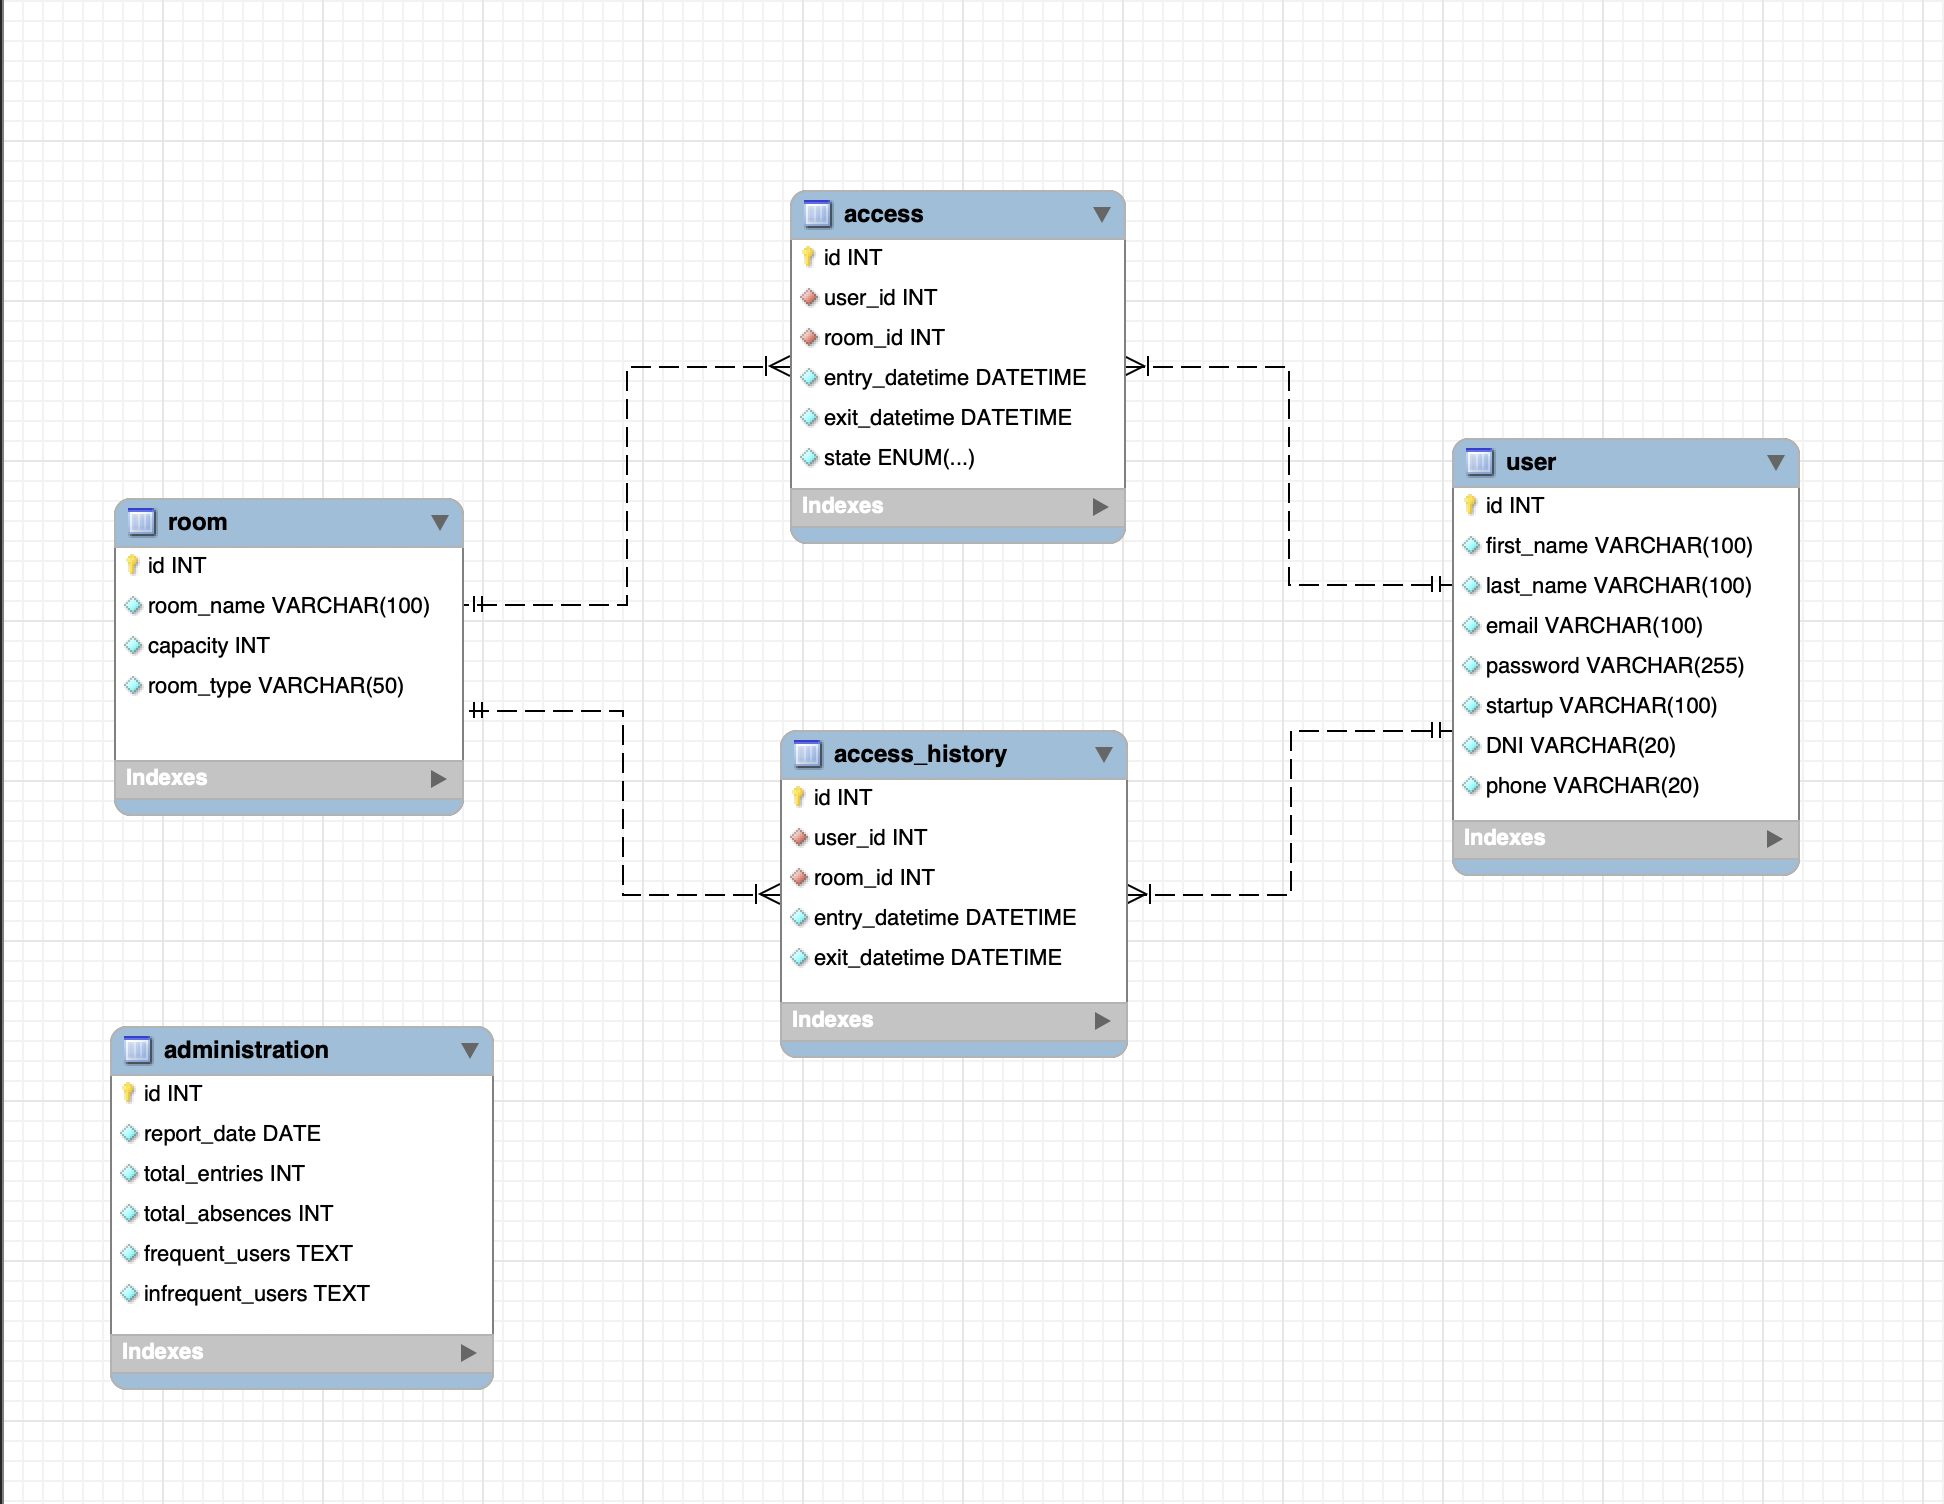
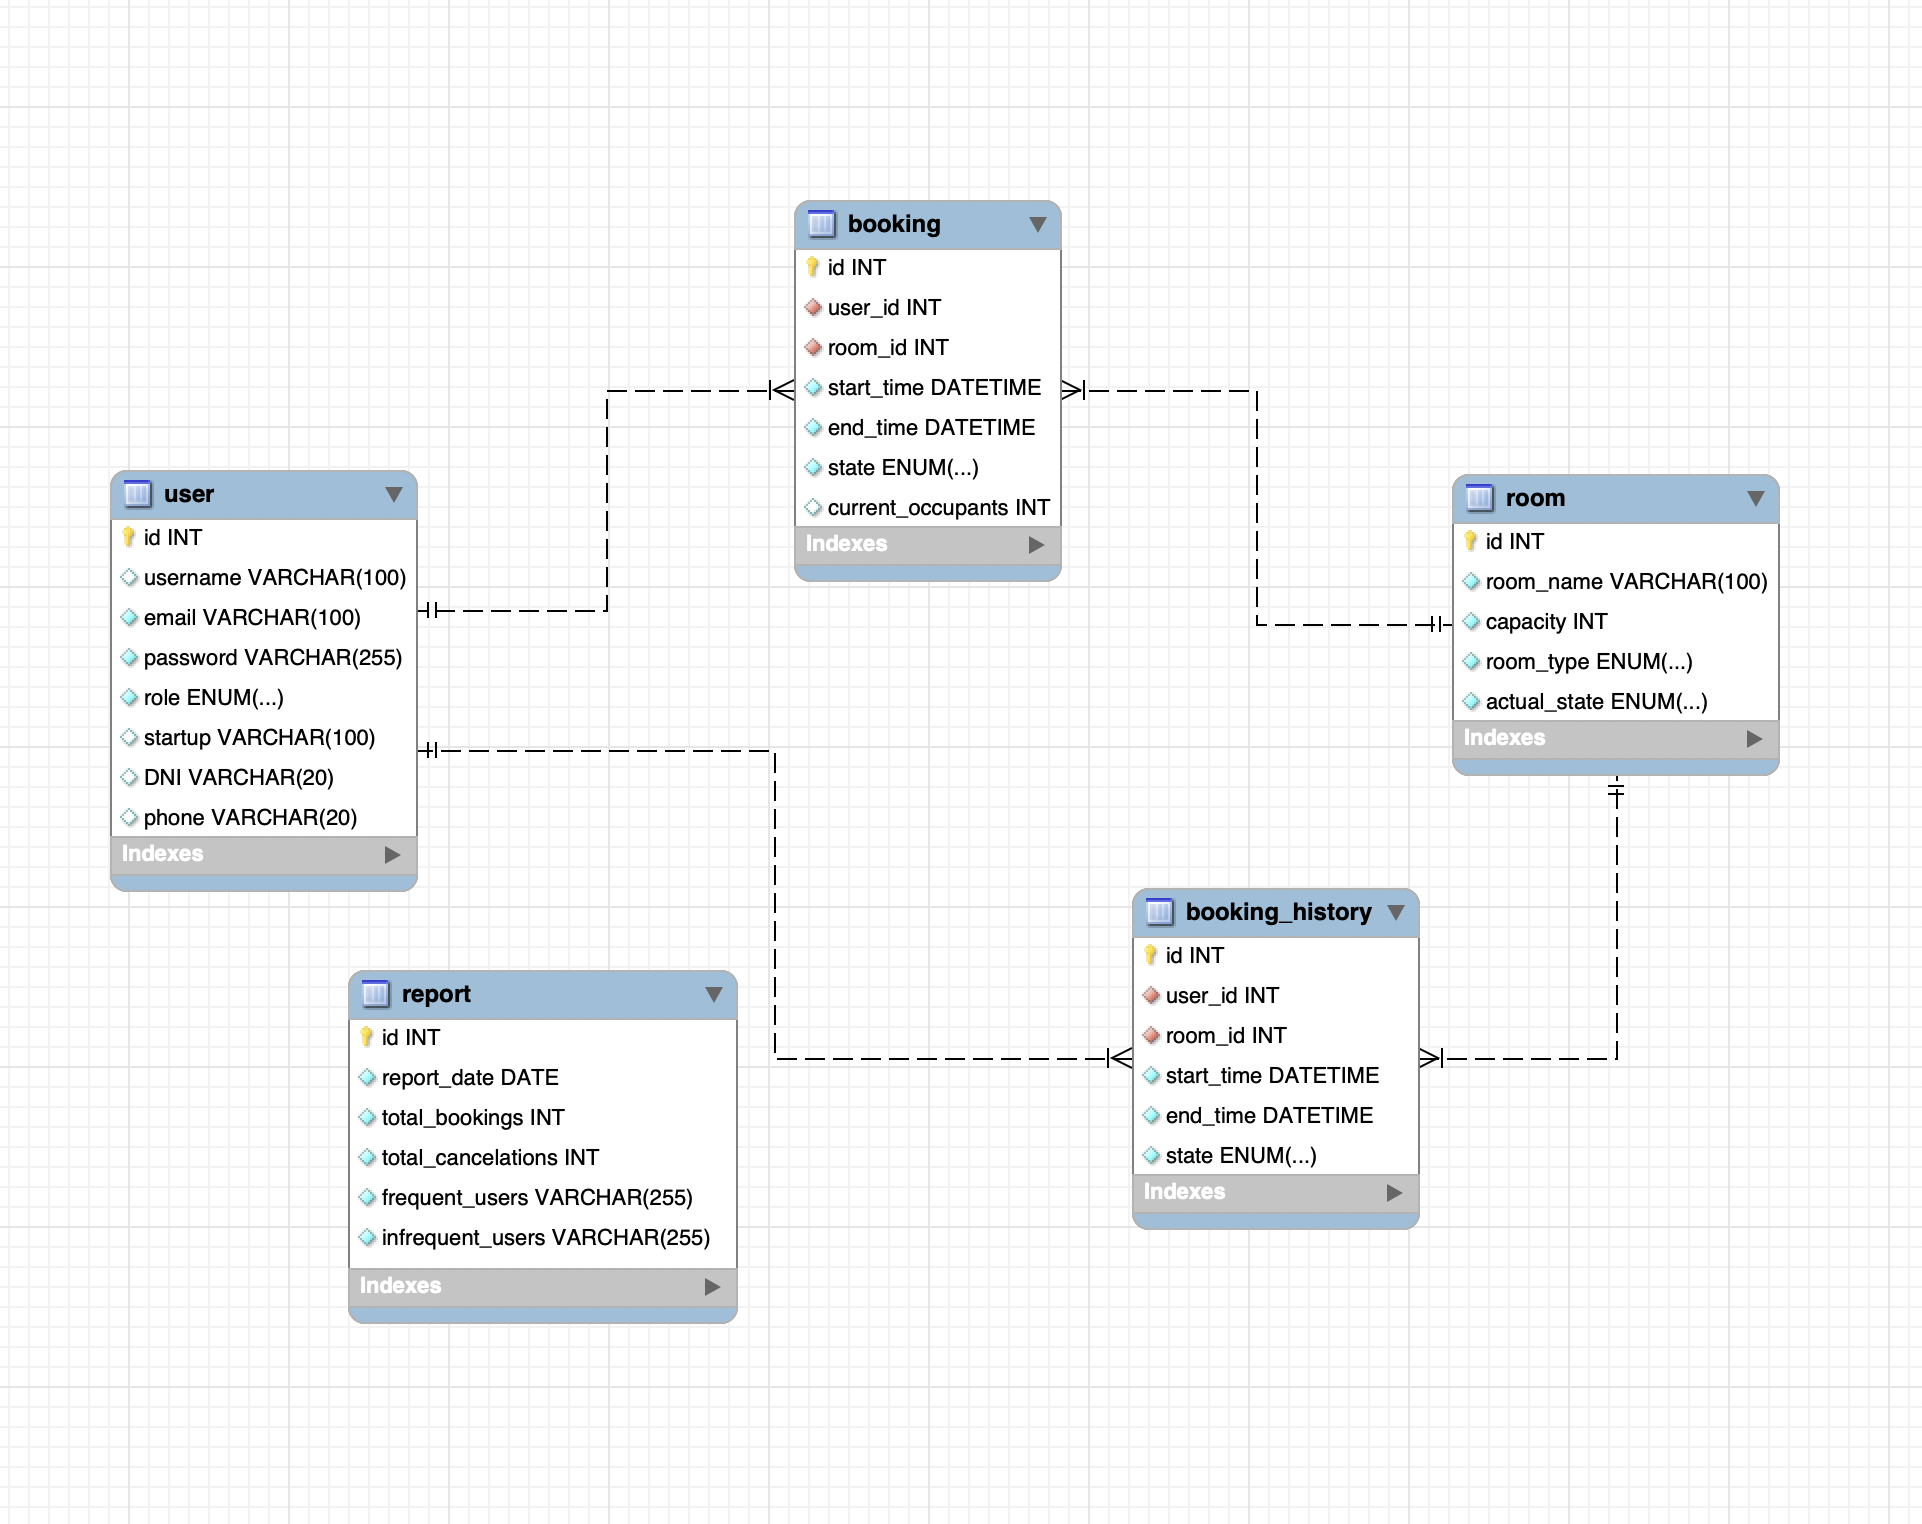
fix: fixed some typos and changed Reverse Engeneer schema in README

diff --git a/README.md b/README.md
@@ -66,7 +66,7 @@ Used technologies for the project:
 
 <img src="./img/Reverse_schema.png">
 
-- The database schema includes entities like `User`, `Room`, `Access`, `AccessHistory`, and `Administration`. These tables are interconnected to provide a comprehensive system for managing access controls dynamically. The relationships between them provide a faster and more capable way of updating the data in real time environment. It is designed in SQL together with TypeORM.
+- The database schema includes entities like `User`, `Room`, `Booking`, `Booking_History`, and `Report`. These tables are interconnected to provide a comprehensive system for managing access controls dynamically. The relationships between them provide a faster and more capable way of updating the data in real time environment. It is designed in SQL together with TypeORM.
 
 ## Local installation option ⚙
 - Before starting it is important to have SQL and MySQLWorkbench installed locally in order to work with the database. If you dont have it or simply prefer to use a Docker configuration please follow the steps bellow and then you can continue with the clone.
@@ -90,8 +90,8 @@ Used technologies for the project:
 
 | Method | URI       | Action         | Auth                | Body                                                                                   |
 |--------|-----------|----------------|---------------------|----------------------------------------------------------------------------------------|
-| POST   | auth/register  | Register user  | N/A (public)        | `{  "email": "userEmail", "password": "userPassword" }` |
-| POST   | auth/login     | Login user     | N/A (public)        | `{ "email": "userEmail", "password": "userPassword" }`                                |
+| POST   | /auth/register  | Register user  | N/A (public)        | `{  "email": "userEmail", "password": "userPassword" }` |
+| POST   | /auth/login     | Login user     | N/A (public)        | `{ "email": "userEmail", "password": "userPassword" }`                                |
 
 ### 👤 Users
 
